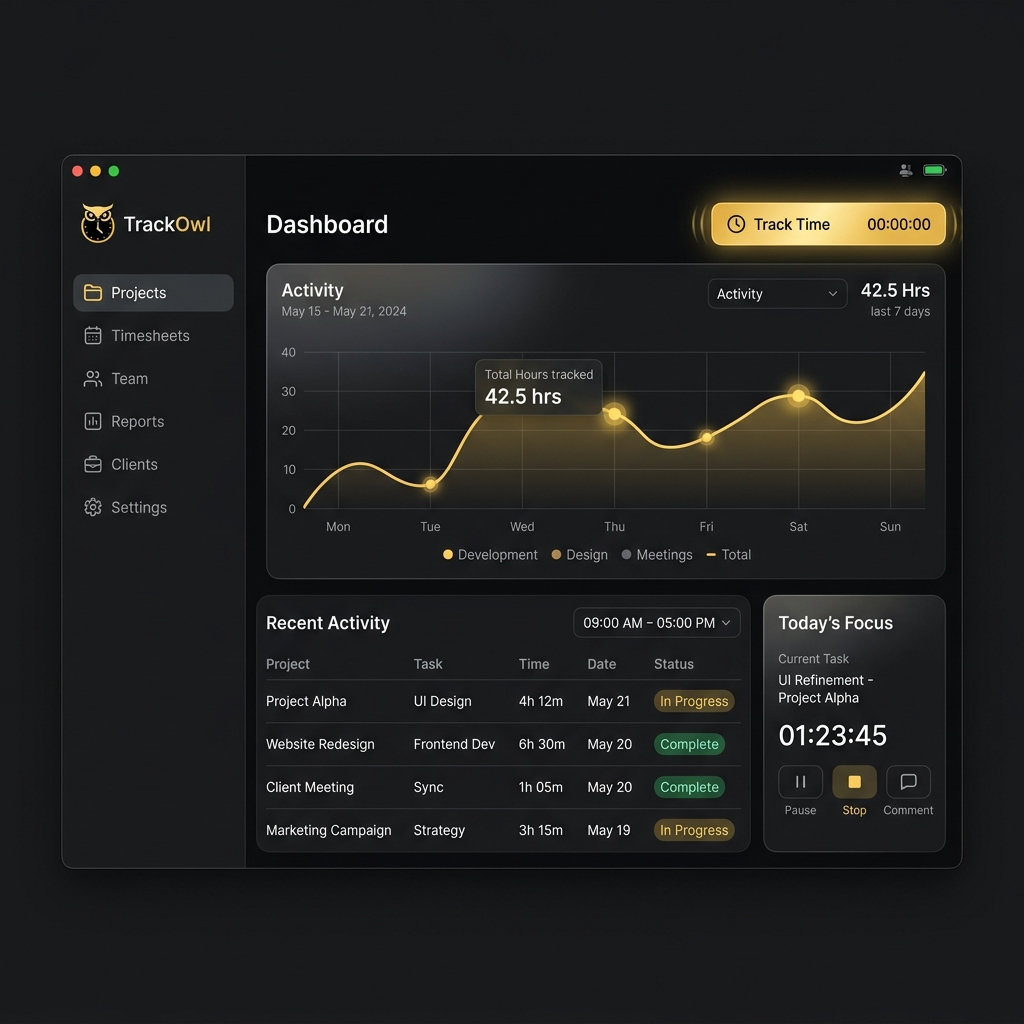
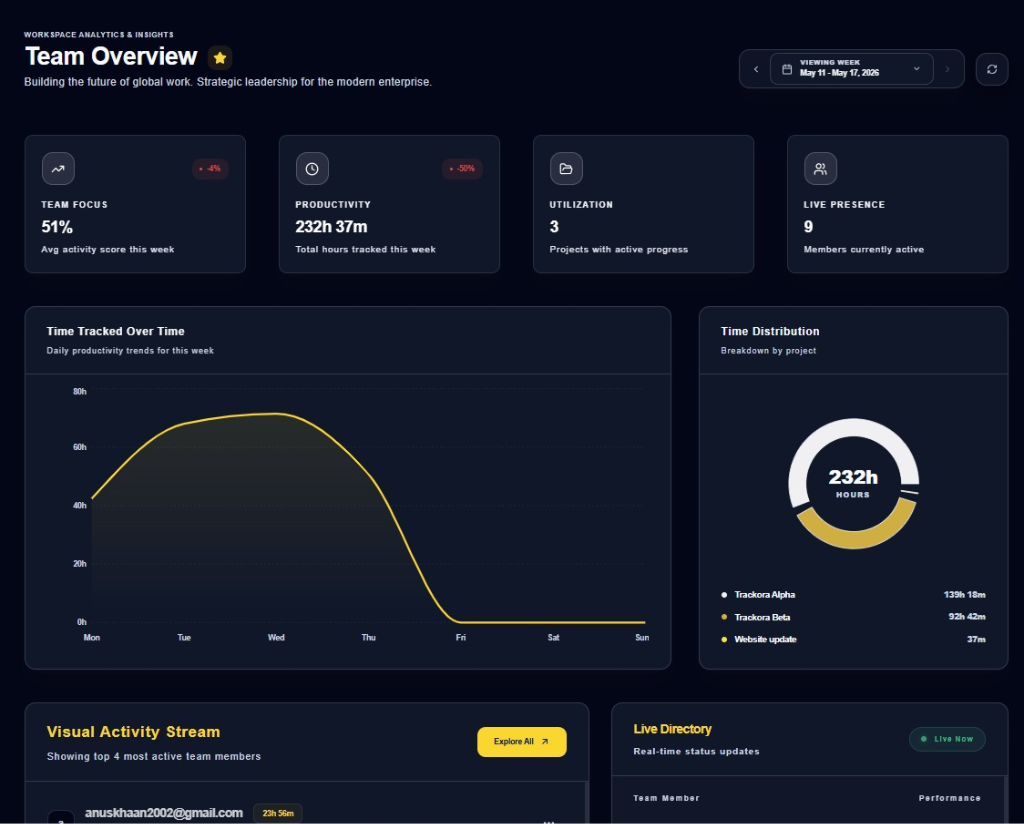
feat: enhance landing page layout and visuals

diff --git a/apps/admin-portal/src/pages/Landing.tsx b/apps/admin-portal/src/pages/Landing.tsx
@@ -4,7 +4,6 @@ import { motion } from 'framer-motion';
 import {
     ChevronRight,
     Check,
-    Zap,
     Monitor,
     Clock,
     Camera,
@@ -18,12 +17,19 @@ import {
     Globe,
     Briefcase,
     Plus,
-    Minus
+    Minus,
+    Heart,
+    ShoppingCart,
+    CreditCard,
+    GraduationCap,
+    Palette,
+    MessageSquare
 } from 'lucide-react';
 import { twMerge } from 'tailwind-merge';
 
 import LogoIcon from '../assets/branding/3.svg';
 import DashboardPreview from '../assets/branding/dashboard-preview.png';
+import DesktopPreview from '../assets/branding/desktop-preview.png';
 import JasonAvatar from '../assets/branding/jason.png';
 import ElenaAvatar from '../assets/branding/elena.png';
 import SarahAvatar from '../assets/branding/sarah.png';
@@ -124,10 +130,10 @@ export function Landing() {
                     <motion.div
                         initial={{ opacity: 0, x: -20 }}
                         animate={{ opacity: 1, x: 0 }}
-                        className="relative w-40 h-full flex items-center cursor-pointer group"
+                        className="relative w-48 h-full flex items-center cursor-pointer group"
                         onClick={() => window.scrollTo({ top: 0, behavior: 'smooth' })}
                     >
-                        <div className="absolute top-1/2 -translate-y-1/2 flex h-32 w-32 items-center justify-center transition-transform duration-500 group-hover:rotate-[360deg]">
+                        <div className="absolute top-1/2 -translate-y-1/2 flex h-40 w-40 items-center justify-center transition-all duration-300 group-hover:scale-[1.05]">
                             <img src={LogoIcon} alt="TrackOwl" className="w-full h-full object-contain" />
                         </div>
                     </motion.div>
@@ -158,107 +164,134 @@ export function Landing() {
 
             <main className="relative z-10">
                 {/* Hero Section */}
-                <section className="relative min-h-[90vh] flex items-center justify-center pt-52 pb-20 overflow-hidden">
-                    <div className="mx-auto max-w-7xl px-6 md:px-10 flex flex-col items-center text-center">
-
-
-                        <motion.h1
-                            initial={{ opacity: 0, y: 20 }}
-                            animate={{ opacity: 1, y: 0 }}
-                            transition={{ duration: 0.6, delay: 0.1 }}
-                            className="max-w-5xl text-5xl md:text-7xl lg:text-8xl font-black tracking-tight leading-[0.95] mb-8"
-                        >
-                            Stop Losing <span className="text-primary italic">Billable</span> <br className="hidden md:block" />
-                            Hours with <span className="text-shiny-gold">TrackOwl</span>.
-                        </motion.h1>
-
-                        <motion.p
-                            initial={{ opacity: 0, y: 20 }}
-                            animate={{ opacity: 1, y: 0 }}
-                            transition={{ duration: 0.6, delay: 0.2 }}
-                            className="max-w-none text-lg md:text-xl font-medium text-[var(--text-secondary)] leading-relaxed mb-4"
-                        >
-                            The precision time tracker for modern teams who value <span className="text-[var(--text-main)] font-bold decoration-primary/40 underline underline-offset-4 decoration-2">transparency over micromanagement</span>.
-                        </motion.p>
-                        <motion.div
-                            initial={{ opacity: 0, y: 10 }}
-                            animate={{ opacity: 1, y: 0 }}
-                            transition={{ duration: 0.6, delay: 0.25 }}
-                            className="text-[11px] font-bold tracking-[0.2em] text-[var(--text-muted)] uppercase mb-12"
-                        >
-                            No credit card required · Free to explore · Cancel anytime
-                        </motion.div>
-
-                        <motion.div
-                            initial={{ opacity: 0, y: 20 }}
-                            animate={{ opacity: 1, y: 0 }}
-                            transition={{ duration: 0.6, delay: 0.3 }}
-                            className="flex flex-col sm:flex-row items-center gap-5 w-full sm:w-auto"
-                        >
-                            <button
-                                onClick={() => navigate('/signup')}
-                                className="w-full sm:w-auto px-10 py-4 bg-primary text-white text-[13px] font-bold tracking-widest rounded-2xl shadow-glow-primary hover:scale-105 active:scale-95 transition-all flex items-center justify-center gap-3 group"
+                <section className="relative min-h-[90vh] flex items-center justify-center pt-48 pb-20 overflow-hidden">
+                    <div className="mx-auto max-w-7xl px-6 md:px-10 grid grid-cols-1 lg:grid-cols-12 gap-12 lg:gap-16 items-center">
+                        {/* Left Column: Content */}
+                        <div className="col-span-12 lg:col-span-6 flex flex-col items-center lg:items-start text-center lg:text-left pr-0 lg:pr-6">
+                            <motion.div
+                                initial={{ opacity: 0, y: -10 }}
+                                animate={{ opacity: 1, y: 0 }}
+                                transition={{ duration: 0.6 }}
+                                className="text-[#D4AF37] text-[10px] font-bold tracking-[0.25em] uppercase mb-4"
                             >
-                                Get Started Free
-                                <ChevronRight className="w-4 h-4 group-hover:translate-x-1 transition-transform" />
-                            </button>
-                            <button
-                                onClick={() => document.getElementById('how-it-works')?.scrollIntoView({ behavior: 'smooth' })}
-                                className="w-full sm:w-auto px-10 py-4 bg-[var(--bg-surface)] border border-[var(--border-color)] text-[13px] font-bold tracking-widest rounded-2xl hover:bg-[var(--bg-surface-hover)] hover:border-primary/20 transition-all active:scale-95 shadow-shell-sm flex items-center justify-center gap-2"
+                                Workforce Analytics & Insights
+                            </motion.div>
+
+                            <motion.h1
+                                initial={{ opacity: 0, y: 20 }}
+                                animate={{ opacity: 1, y: 0 }}
+                                transition={{ duration: 0.6, delay: 0.1 }}
+                                className="text-4xl sm:text-5xl lg:text-[46px] xl:text-[54px] font-black tracking-tight leading-[1.08] mb-6 text-[var(--text-main)]"
                             >
-                                How it Works
-                            </button>
-                        </motion.div>
+                                Stop Losing <br className="hidden lg:block" />
+                                <span className="text-[#D4AF37]">Billable</span> Hours with <br className="hidden lg:block" />
+                                TrackOwl.
+                            </motion.h1>
 
-                        <motion.div
-                            initial={{ opacity: 0, scale: 0.95 }}
-                            animate={{ opacity: 1, scale: 1 }}
-                            transition={{ duration: 1, delay: 0.5 }}
-                            className="mt-20 relative w-full max-w-6xl mx-auto px-4 perspective-[1000px]"
-                        >
-                            <div className="relative rounded-[2.5rem] border-[8px] border-[var(--bg-surface)] shadow-premium overflow-hidden transform rotateX-4 group transition-transform duration-700 hover:rotateX-0">
-                                <div className="absolute inset-0 bg-gradient-to-t from-primary/10 to-transparent pointer-events-none z-10" />
-                                <img
-                                    src={DashboardPreview}
-                                    alt="TrackOwl Interface"
-                                    className="w-full h-auto object-cover transition-transform duration-1000 group-hover:scale-105"
-                                />
-                                <div className="absolute inset-0 border border-white/10 rounded-[2rem] pointer-events-none z-20" />
-                            </div>
+                            <motion.p
+                                initial={{ opacity: 0, y: 20 }}
+                                animate={{ opacity: 1, y: 0 }}
+                                transition={{ duration: 0.6, delay: 0.2 }}
+                                className="text-base md:text-lg font-medium text-[var(--text-secondary)] leading-relaxed mb-8 max-w-md"
+                            >
+                                The smart time tracking solution for modern teams, <span className="text-primary font-bold border-b border-primary/20 pb-0.5">transparent processes</span>, and <span className="text-primary font-bold border-b border-primary/20 pb-0.5">better project outcomes</span>.
+                            </motion.p>
 
-                            {/* Floating decorative elements */}
-                            <div className="absolute -top-10 -left-10 w-40 h-40 bg-primary/20 blur-[60px] rounded-full animate-pulse" />
-                            <div className="absolute -bottom-10 -right-10 w-60 h-60 bg-primary/10 blur-[80px] rounded-full animate-pulse" style={{ animationDelay: '1.5s' }} />
-                        </motion.div>
-                    </div>
-                </section>
+                            <motion.div
+                                initial={{ opacity: 0, y: 20 }}
+                                animate={{ opacity: 1, y: 0 }}
+                                transition={{ duration: 0.6, delay: 0.3 }}
+                                className="flex flex-col sm:flex-row items-center gap-4 w-full sm:w-auto"
+                            >
+                                <button
+                                    onClick={() => navigate('/signup')}
+                                    className="w-full sm:w-auto px-7 py-3.5 bg-[#D4AF37] hover:bg-[#D4AF37]/90 text-[#001B4D] text-[11px] font-black tracking-widest uppercase rounded-full shadow-lg hover:scale-[1.02] active:scale-95 transition-all flex items-center justify-center gap-2 group"
+                                >
+                                    Start Your Free Trial
+                                    <ChevronRight className="w-4 h-4 group-hover:translate-x-1 transition-transform" />
+                                </button>
+                                <button
+                                    onClick={() => document.getElementById('how-it-works')?.scrollIntoView({ behavior: 'smooth' })}
+                                    className="w-full sm:w-auto px-7 py-3.5 bg-[var(--bg-surface)] border border-[var(--border-color)] text-[var(--text-main)] text-[11px] font-black tracking-widest uppercase rounded-full hover:bg-[var(--bg-surface-hover)] hover:border-primary/20 transition-all active:scale-95 shadow-shell-sm flex items-center justify-center gap-2 group"
+                                >
+                                    Take a Tour
+                                    <ChevronRight className="w-4 h-4 group-hover:translate-x-1 transition-transform" />
+                                </button>
+                            </motion.div>
 
-                {/* Trusted By Section */}
-                <section className="py-20 border-y border-[var(--border-color)] bg-[var(--bg-surface)]/30 overflow-hidden">
-                    <div className="mx-auto max-w-7xl px-6 text-center mb-10">
-                        <span className="text-[10px] font-bold tracking-[0.3em] text-[var(--text-muted)] uppercase">Trusted by forward-thinking teams at</span>
-                    </div>
-                    <div className="relative flex overflow-x-hidden group">
-                        <div className="animate-marquee flex gap-20 py-4 opacity-50 grayscale group-hover:grayscale-0 group-hover:opacity-100 transition-all duration-500 items-center">
-                            {['NexaSYS', 'CloudScale', 'OrbitAI', 'StreamFlow', 'MetaDesign', 'DataCore', 'Visionary', 'PrimeLogistics'].map((name, i) => (
-                                <div key={i} className="flex items-center gap-3">
-                                    <div className="w-8 h-8 rounded-lg bg-primary/10 flex items-center justify-center">
-                                        <Zap className="w-4 h-4 text-primary" />
-                                    </div>
-                                    <span className="text-xl font-black tracking-tighter text-[var(--text-main)]">{name}</span>
+                            {/* Trusted by industries */}
+                            <motion.div
+                                initial={{ opacity: 0 }}
+                                animate={{ opacity: 1 }}
+                                transition={{ duration: 0.8, delay: 0.5 }}
+                                className="mt-12 w-full pt-8 border-t border-[var(--border-color)]/60 text-center lg:text-left"
+                            >
+                                <span className="text-[9px] md:text-[10px] font-bold tracking-[0.25em] text-[var(--text-muted)] uppercase block mb-6">
+                                    Loved by SMBS to the Large Global Teams
+                                </span>
+                                <div className="grid grid-cols-5 gap-y-6 gap-x-2 md:gap-x-4">
+                                    {[
+                                        { name: 'SaaS/Tech', icon: Monitor },
+                                        { name: 'Healthcare', icon: Heart },
+                                        { name: 'eCommerce', icon: ShoppingCart },
+                                        { name: 'FinTech', icon: CreditCard },
+                                        { name: 'Education', icon: GraduationCap },
+                                        { name: 'Marketing', icon: TrendingUp },
+                                        { name: 'Design', icon: Palette },
+                                        { name: 'Agency', icon: Briefcase },
+                                        { name: 'Consulting', icon: MessageSquare },
+                                        { name: 'Nonprofit', icon: Globe }
+                                    ].map((ind, i) => {
+                                        const Icon = ind.icon;
+                                        return (
+                                            <div key={i} className="flex flex-col items-center justify-center gap-2 group/ind">
+                                                <Icon className="w-5 h-5 text-[var(--text-muted)] group-hover/ind:text-primary transition-all duration-300" strokeWidth={1.7} />
+                                                <span className="text-[10px] font-medium text-[var(--text-secondary)] whitespace-nowrap tracking-wide">{ind.name}</span>
+                                            </div>
+                                        );
+                                    })}
                                 </div>
-                            ))}
-                            {/* Duplicate for seamless scroll */}
-                            {['NexaSYS', 'CloudScale', 'OrbitAI', 'StreamFlow', 'MetaDesign', 'DataCore', 'Visionary', 'PrimeLogistics'].map((name, i) => (<div key={`dup-${i}`} className="flex items-center gap-3">
-                                <div className="w-8 h-8 rounded-lg bg-primary/10 flex items-center justify-center">
-                                    <Zap className="w-4 h-4 text-primary" />
+                            </motion.div>
+                        </div>
+
+                        {/* Right Column: Image */}
+                        <div className="col-span-12 lg:col-span-6 w-full flex justify-center items-center mt-12 lg:mt-0">
+                            <motion.div
+                                initial={{ opacity: 0, scale: 0.95 }}
+                                animate={{ opacity: 1, scale: 1 }}
+                                transition={{ duration: 1, delay: 0.5 }}
+                                className="relative w-full max-w-2xl lg:max-w-none px-4 mockup-3d-container"
+                            >
+                                {/* Main Admin Dashboard Image */}
+                                <div className="relative rounded-[2.5rem] border-[8px] border-[var(--bg-surface)] shadow-premium overflow-hidden mockup-3d-card group">
+                                    <div className="absolute inset-0 bg-gradient-to-t from-primary/10 to-transparent pointer-events-none z-10" />
+                                    <img
+                                        src={DashboardPreview}
+                                        alt="TrackOwl Interface"
+                                        className="w-full h-auto block transition-transform duration-1000 group-hover:scale-105"
+                                    />
+                                    <div className="absolute inset-0 border border-white/10 rounded-[2rem] pointer-events-none z-20" />
                                 </div>
-                                <span className="text-xl font-black tracking-tighter text-[var(--text-main)]">{name}</span>
-                            </div>
-                            ))}
+
+                                {/* Floating Desktop App Image */}
+                                <div className="absolute -left-4 md:-left-8 -bottom-10 w-[38%] max-w-[200px] rounded-[1.8rem] border-[6px] border-[var(--bg-surface)] shadow-premium overflow-hidden mockup-desktop-float z-30 group/desktop">
+                                    <div className="absolute inset-0 bg-gradient-to-t from-primary/5 to-transparent pointer-events-none z-10" />
+                                    <img
+                                        src={DesktopPreview}
+                                        alt="TrackOwl Desktop App"
+                                        className="w-full h-auto block transition-transform duration-1000 group-hover/desktop:scale-105"
+                                    />
+                                    <div className="absolute inset-0 border border-white/15 rounded-[1.4rem] pointer-events-none z-20" />
+                                </div>
+
+                                {/* Floating decorative elements */}
+                                <div className="absolute -top-10 -left-10 w-40 h-40 bg-primary/20 blur-[60px] rounded-full animate-pulse pointer-events-none" />
+                                <div className="absolute -bottom-10 -right-10 w-60 h-60 bg-primary/10 blur-[80px] rounded-full animate-pulse pointer-events-none" style={{ animationDelay: '1.5s' }} />
+                            </motion.div>
                         </div>
                     </div>
                 </section>
+
 
                 {/* Features Bento Grid */}
                 <section id="how-it-works" className="py-32 bg-[var(--bg-main)]">
@@ -298,7 +331,7 @@ export function Landing() {
                             {/* Activity - Bento Small */}
                             <div className="md:col-span-4 group relative overflow-hidden rounded-[2.5rem] bg-[var(--bg-surface)] border border-[var(--border-color)] p-10 shadow-soft hover:border-primary/30 transition-all duration-500">
                                 <div className="flex flex-col h-full items-center text-center justify-center space-y-6">
-                                    <div className="w-14 h-14 rounded-2xl bg-emerald-500/10 text-emerald-600 flex items-center justify-center">
+                                    <div className="w-14 h-14 rounded-2xl bg-[#001B4D] text-[#D4AF37] flex items-center justify-center">
                                         <TrendingUp size={28} />
                                     </div>
                                     <h4 className="text-2xl font-black tracking-tight">Active Pulse</h4>
@@ -311,7 +344,7 @@ export function Landing() {
                                                 key={i}
                                                 initial={{ height: 0 }}
                                                 whileInView={{ height: `${h}%` }}
-                                                className="w-full bg-emerald-500/40 rounded-t-sm"
+                                                className="w-full bg-[#D4AF37]/40 rounded-t-sm"
                                                 transition={{ delay: i * 0.1, duration: 0.5 }}
                                             />
                                         ))}
@@ -357,7 +390,7 @@ export function Landing() {
                                         <ul className="space-y-3">
                                             {['CSV/PDF Exports', 'Client Sharing', 'Custom Branding', 'API Access'].map(item => (
                                                 <li key={item} className="flex items-center gap-2 text-xs font-bold tracking-widest uppercase">
-                                                    <Check size={14} className="text-emerald-400" />
+                                                    <Check size={14} className="text-[#D4AF37]" />
                                                     {item}
                                                 </li>
                                             ))}
@@ -370,7 +403,7 @@ export function Landing() {
                                             <div className="h-2 w-3/4 bg-white/20 rounded-full" />
                                             <div className="flex justify-between items-end pt-4">
                                                 <div className="h-16 w-4 bg-white/40 rounded-t-sm" />
-                                                <div className="h-24 w-4 bg-emerald-400 rounded-t-sm shadow-[0_0_15px_rgba(52,211,153,0.5)]" />
+                                                <div className="h-24 w-4 bg-[#D4AF37] rounded-t-sm shadow-[0_0_15px_rgba(212,175,55,0.5)]" />
                                                 <div className="h-12 w-4 bg-white/40 rounded-t-sm" />
                                                 <div className="h-20 w-4 bg-white/40 rounded-t-sm" />
                                             </div>
@@ -399,7 +432,7 @@ export function Landing() {
                                             <div className="text-sm font-bold text-[var(--text-secondary)] uppercase tracking-widest">Efficiency Increase</div>
                                         </div>
                                         <div className="p-6 bg-[var(--bg-main)] rounded-2xl border border-[var(--border-color)] flex items-center gap-6">
-                                            <div className="text-4xl font-black text-emerald-500">$12k</div>
+                                            <div className="text-4xl font-black text-[#D4AF37]">$12k</div>
                                             <div className="text-sm font-bold text-[var(--text-secondary)] uppercase tracking-widest">Avg. Annual Savings</div>
                                         </div>
                                     </div>
@@ -418,7 +451,7 @@ export function Landing() {
                                         </div>
                                     </div>
                                     {/* Abstract background blobs */}
-                                    <div className="absolute -top-10 -right-10 w-40 h-40 bg-emerald-500/10 blur-[60px] rounded-full" />
+                                    <div className="absolute -top-10 -right-10 w-40 h-40 bg-[#D4AF37]/10 blur-[60px] rounded-full" />
                                     <div className="absolute -bottom-10 -left-10 w-40 h-40 bg-primary/10 blur-[60px] rounded-full" />
                                 </div>
                             </div>
@@ -565,14 +598,11 @@ export function Landing() {
                         <div className="flex justify-center items-center gap-6 mb-20">
                             <div className="flex items-center gap-3">
                                 <span className={twMerge("text-sm font-bold tracking-tight transition-colors", !isMonthly ? "text-[var(--text-main)]" : "text-[var(--text-muted)]")}>Yearly</span>
-                                <div className={twMerge(
-                                    "px-3 py-1 rounded-full text-[9px] font-black uppercase tracking-widest border transition-colors duration-300",
-                                    isMonthly
-                                        ? "bg-rose-500/10 text-rose-500 border-rose-500/20"
-                                        : "bg-emerald-500/10 text-emerald-500 border-emerald-500/20"
-                                )}>
-                                    Save 25%
-                                </div>
+                                {!isMonthly && (
+                                    <div className="px-3 py-1 rounded-full text-[9px] font-black uppercase tracking-widest border bg-[#D4AF37]/10 text-[#D4AF37] border-[#D4AF37]/20 transition-all duration-300">
+                                        Save 25%
+                                    </div>
+                                )}
                             </div>
 
                             <button
@@ -668,7 +698,7 @@ export function Landing() {
                             <div className="absolute top-0 right-0 w-1/2 h-full bg-gradient-to-l from-primary/5 to-transparent pointer-events-none" />
                             <div className="relative z-10 flex flex-col md:flex-row items-center gap-16">
                                 <div className="flex-1 space-y-8">
-                                    <div className="inline-flex items-center gap-2 px-4 py-1.5 rounded-full bg-emerald-500/10 text-emerald-600 text-[10px] font-black uppercase tracking-[0.2em]">
+                                    <div className="inline-flex items-center gap-2 px-4 py-1.5 rounded-full bg-[#D4AF37]/10 text-[#D4AF37] text-[10px] font-black uppercase tracking-[0.2em]">
                                         <ShieldCheck size={14} /> Official Desktop Client
                                     </div>
                                     <h2 className="text-4xl md:text-6xl font-black tracking-tight leading-[1.1]">Ready to Start <br /> <span className="text-primary italic">Tracking?</span></h2>

diff --git a/apps/admin-portal/src/index.css b/apps/admin-portal/src/index.css
@@ -477,3 +477,48 @@
 .dark input[type="range"]::-moz-range-track {
   background: rgba(255, 255, 255, 0.1);
 }
+
+/* 3D Mockup Effects for Widescreen Layouts */
+@media (min-width: 1024px) {
+  .mockup-3d-container {
+    perspective: 1500px;
+    transform-style: preserve-3d;
+  }
+  
+  .mockup-3d-card {
+    transform: rotateX(5deg) rotateY(-8deg) rotateZ(1deg);
+    transition: transform 0.8s cubic-bezier(0.16, 1, 0.3, 1);
+    transform-style: preserve-3d;
+    will-change: transform;
+    backface-visibility: hidden;
+    -webkit-backface-visibility: hidden;
+  }
+  
+  .mockup-3d-card:hover {
+    transform: rotateX(0deg) rotateY(0deg) rotateZ(0deg);
+  }
+
+  .mockup-desktop-float {
+    transform: translateZ(50px) rotateX(5deg) rotateY(-8deg) rotateZ(1deg);
+    transition: transform 0.8s cubic-bezier(0.16, 1, 0.3, 1);
+    transform-style: preserve-3d;
+    will-change: transform;
+    backface-visibility: hidden;
+    -webkit-backface-visibility: hidden;
+  }
+  
+  .mockup-3d-container:hover .mockup-desktop-float {
+    transform: translateZ(20px) rotateX(0deg) rotateY(0deg) rotateZ(0deg);
+  }
+
+  /* Anti-blur rendering fixes for 3D transformed images */
+  .mockup-3d-card img, 
+  .mockup-desktop-float img {
+    backface-visibility: hidden;
+    -webkit-backface-visibility: hidden;
+    transform: translate3d(0, 0, 0);
+    will-change: transform;
+    image-rendering: -webkit-optimize-contrast;
+    image-rendering: auto;
+  }
+}